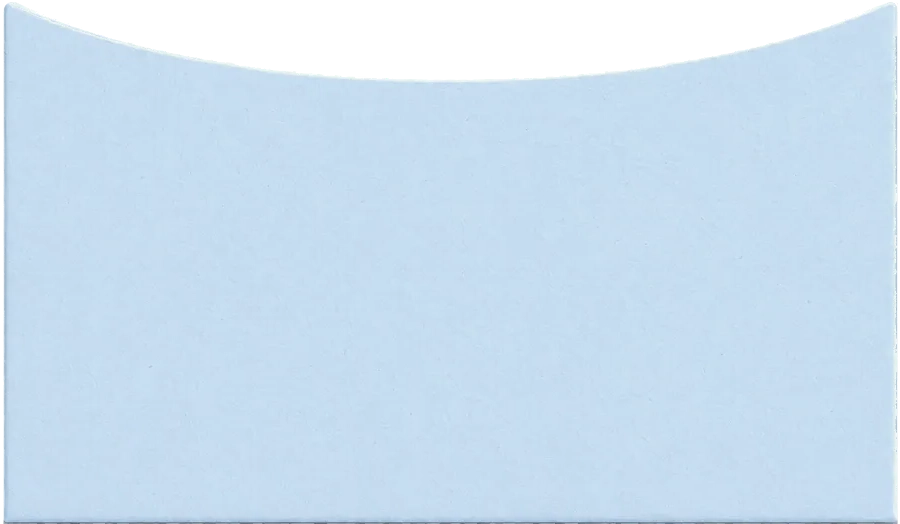
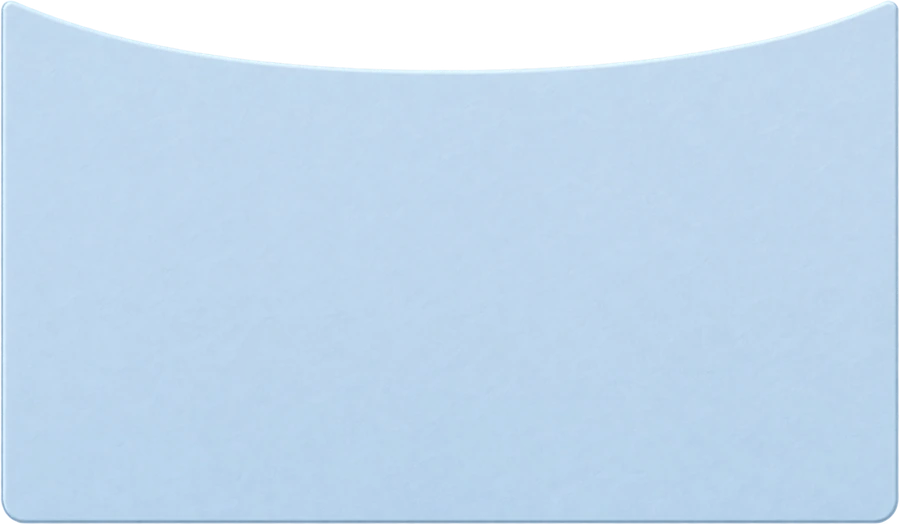
feat: replace 6 envelope images with revised designs
env-{anxious,calling,distant,forgive} (mood cards, 271x315) and
env-front-{distant,calling} (assessment envelope front, 900x524) from
the new PNG exports. Source aspect ratios match the existing canvases
exactly, so each is resized whole (no crop) to keep front/back/card
alignment; alpha<=3 haze zeroed, webp q92. Synced into
mind-pharmacy/assets-web.

Envelope refs bumped ?v=2 -> ?v=3 and the three script tags
re-versioned so cached browsers pick up the new art.

Changed region(s): [[0.0, 0.0, 1.0, 1.0], [0.9022, 0.0305, 0.9644, 0.0611]]

diff --git a/ui_kits/soul-pharmacy/AssessmentScreen.jsx b/ui_kits/soul-pharmacy/AssessmentScreen.jsx
@@ -86,7 +86,7 @@ function AssessmentScreen({ mood, onBack, onSubmit }) {
       <div aria-hidden="true" style={{ position: "absolute", inset: 0, zIndex: 0, overflow: "hidden", pointerEvents: "none" }}>
         <div style={{ position: "absolute", top: pc ? "9%" : "7%", left: "50%", transform: "translateX(-50%)", display: "flex", gap: pc ? 30 : 14, filter: "blur(4px)", opacity: 0.5 }}>
           {["anxious", "broken", "compare", "waiting", "forgive", "distant", "calling", "thanks"].map((k, i) => (
-            <img key={k} src={`assets-web/env-front-${k}.webp?v=2`} alt="" draggable="false" style={{ width: pc ? 150 : 68, height: "auto", transform: `translateY(${i % 2 ? 20 : 0}px)`, userSelect: "none" }} />
+            <img key={k} src={`assets-web/env-front-${k}.webp?v=3`} alt="" draggable="false" style={{ width: pc ? 150 : 68, height: "auto", transform: `translateY(${i % 2 ? 20 : 0}px)`, userSelect: "none" }} />
           ))}
         </div>
         <div style={{ position: "absolute", inset: 0, background: "linear-gradient(180deg, rgba(250,247,240,0.5) 0%, rgba(250,247,240,0.82) 52%, #F3EEE9 100%)" }} />
@@ -120,7 +120,7 @@ function AssessmentScreen({ mood, onBack, onSubmit }) {
 
           {/* (1) 봉투 뒷면 */}
           <img
-            src={`assets-web/env-back-${mood}.webp?v=2`}
+            src={`assets-web/env-back-${mood}.webp?v=3`}
             alt=""
             draggable="false"
             style={{ position: "absolute", left: "50%", bottom: 0, transform: "translateX(-50%)", width: backW, height: "auto", zIndex: 1, userSelect: "none", filter: "drop-shadow(0 14px 22px rgba(120,92,64,0.16))", pointerEvents: "none" }}
@@ -170,7 +170,7 @@ function AssessmentScreen({ mood, onBack, onSubmit }) {
               filter: "drop-shadow(0 6px 10px rgba(120,92,64,0.14))",
             }}
           >
-            <img src={`assets-web/env-front-${mood}.webp?v=2`} alt="" draggable="false" style={{ display: "block", width: "100%", height: "auto", userSelect: "none" }} />
+            <img src={`assets-web/env-front-${mood}.webp?v=3`} alt="" draggable="false" style={{ display: "block", width: "100%", height: "auto", userSelect: "none" }} />
             <span
               style={{
                 position: "absolute", left: 0, right: 0, top: "62%", transform: "translateY(-50%)",

diff --git a/ui_kits/soul-pharmacy/MainScreen.jsx b/ui_kits/soul-pharmacy/MainScreen.jsx
@@ -3,14 +3,14 @@
 // 기존 리스트/제목은 아래로 내려가며 사라진(list-exit) 뒤 onNext로 문진 화면으로 넘어간다.
 function MainScreen({ selected, onSelect, onNext }) {
   const ENVELOPES = [
-    { key: "anxious", img: "assets-web/env-anxious.webp?v=2", label: "불안해요" },
-    { key: "broken",  img: "assets-web/env-broken.webp?v=2",  label: "마음이\n무너졌어요" },
-    { key: "compare", img: "assets-web/env-compare.webp?v=2", label: "비교돼요" },
-    { key: "waiting", img: "assets-web/env-waiting.webp?v=2", label: "기다리기\n힘들어요" },
-    { key: "forgive", img: "assets-web/env-forgive.webp?v=2", label: "용서가\n안 돼요" },
-    { key: "distant", img: "assets-web/env-distant.webp?v=2", label: "하나님이\n멀게 느껴져요" },
-    { key: "calling", img: "assets-web/env-calling.webp?v=2", label: "책임이\n버거워요" },
-    { key: "thanks",  img: "assets-web/env-thanks.webp?v=2",  label: "감사가\n사라졌어요" },
+    { key: "anxious", img: "assets-web/env-anxious.webp?v=3", label: "불안해요" },
+    { key: "broken",  img: "assets-web/env-broken.webp?v=3",  label: "마음이\n무너졌어요" },
+    { key: "compare", img: "assets-web/env-compare.webp?v=3", label: "비교돼요" },
+    { key: "waiting", img: "assets-web/env-waiting.webp?v=3", label: "기다리기\n힘들어요" },
+    { key: "forgive", img: "assets-web/env-forgive.webp?v=3", label: "용서가\n안 돼요" },
+    { key: "distant", img: "assets-web/env-distant.webp?v=3", label: "하나님이\n멀게 느껴져요" },
+    { key: "calling", img: "assets-web/env-calling.webp?v=3", label: "책임이\n버거워요" },
+    { key: "thanks",  img: "assets-web/env-thanks.webp?v=3",  label: "감사가\n사라졌어요" },
   ];
   const ENV_W = 168; // 봉투 표시 폭 (원본 271×315 비율 유지)
 

diff --git a/ui_kits/soul-pharmacy/IntroSequence.jsx b/ui_kits/soul-pharmacy/IntroSequence.jsx
@@ -133,7 +133,7 @@ function IntroLoading({ onDone }) {
     let done = false;
     const finish = () => { if (!done) { done = true; setBye(true); setTimeout(() => onDone && onDone(), 460); } };
     const urls = ["assets-web/leaf-tl.webp", "assets-web/leaf-br.webp", "assets-web/wood-bar.webp"];
-    for (const m of MOODS) urls.push("assets-web/env-" + m + ".webp?v=2");
+    for (const m of MOODS) urls.push("assets-web/env-" + m + ".webp?v=3");
     let loaded = 0;
     const check = () => { loaded++; if (loaded >= urls.length) setTimeout(finish, 200); };
     for (const u of urls) { const img = new Image(); img.onload = check; img.onerror = check; img.src = u; }

diff --git a/ui_kits/soul-pharmacy/index.html b/ui_kits/soul-pharmacy/index.html
@@ -50,9 +50,9 @@
   );
 </script>
 <script type="text/babel" src="LogoMark.jsx"></script>
-<script type="text/babel" src="IntroSequence.jsx?v=env2"></script>
-<script type="text/babel" src="MainScreen.jsx?v=env2"></script>
-<script type="text/babel" src="AssessmentScreen.jsx?v=env2"></script>
+<script type="text/babel" src="IntroSequence.jsx?v=env3"></script>
+<script type="text/babel" src="MainScreen.jsx?v=env3"></script>
+<script type="text/babel" src="AssessmentScreen.jsx?v=env3"></script>
 <script type="text/babel" src="ResultScreen.jsx?v=scene2"></script>
 <script type="text/babel" src="StickerScreen.jsx?v=cardfit2"></script>
 <script type="text/babel">
